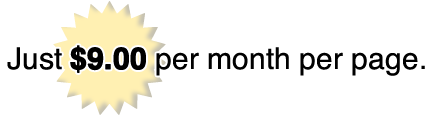
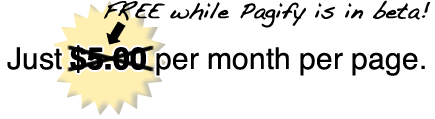
beta launched!

diff --git a/templates/app/fb-tab.html b/templates/app/fb-tab.html
@@ -25,7 +25,7 @@
             <img id="pagify-image" class="widget" src="{{page.header_image_url}}=s520"/>
             {% endif %}
 
-            <div id="pagify-widget-list-1" class="widget">
+            <div id="pagify-widget-list-1" class="widget" style="display:none">
             	{% for w in widgets %}
                 	<h3><a href="#">{{w.name}}</a></h3>
                 	<div id="{{w.id}}" class="widget-list-item widget-{{w.type}}">
@@ -136,7 +136,7 @@
 		      call = "call_" + wid.replace(/-/g, "") + "()";
               eval(call);
 		  }
-		});
+		}).fadeIn();
 		
 		// Load default widget if there is one
 		var firstWidget = $("#pagify-widget-list-1 > div:eq(0)");

diff --git a/templates/app/login.html b/templates/app/login.html
@@ -20,7 +20,7 @@
     <div id="login">
         <h1><a href="http://pagifyapp.com" title="Powered by Pagify">Pagify</a></h1>
         <div id="loginform" class="box_round_4 box_shadow">
-            <fb:login-button autologoutlink="true" size="large" perms="read_stream,publish_stream,offline_access,email">Login with Facebook</fb:login-button>
+            <fb:login-button autologoutlink="true" size="large" perms="publish_stream,offline_access,email,manage_pages">Login with Facebook</fb:login-button>
         </div>
     </div>
     <p id="backto" class="header_box_gradient"><a href="http://pagifyapp.com/" title="Are you lost?">&larr; Back to Pagify</a></p>

diff --git a/templates/app/inc/inc.fblogin.html b/templates/app/inc/inc.fblogin.html
@@ -1,3 +1,3 @@
-<fb:login-button autologoutlink="true" perms="read_stream,publish_stream,offline_access,email"></fb:login-button>
+<fb:login-button autologoutlink="true" perms="publish_stream,offline_access,email,manage_pages"></fb:login-button>
 <span id="fb-profile-picture"><fb:profile-pic uid="loggedinuser" size="square" facebook-logo="true"></fb:profile-pic></span>
 <span id="fb-profile-name">Hello <fb:name uid="loggedinuser" use-you="no"></fb:name></span>

diff --git a/templates/app/upgrade.html b/templates/app/upgrade.html
@@ -5,8 +5,10 @@
 {% endblock %}
 {% block body %}
 <h1>Upgrade</h1>
-<p style="text-align:center;font-size:30px">
-Coming Soon!
+<p style="text-align:center;font-size:30px;line-height: 1.5em;">
+Coming Soon!<br/>
+Packages will be available once Pagify is out of beta.
+<br/>For being a beta tester you will receive 50% off any package!
 </p>
 {% comment %}
 <ul id="upgrade-list" class="">

diff --git a/templates/app/widgets/youtube.html b/templates/app/widgets/youtube.html
@@ -15,7 +15,7 @@
 
 <script>
 var timeout_{{widget.id|cut:"-"}};
-$('.{{widget.id}}').bind('textchange', function () {
+$('.{{widget.id}}').bind('textchange change', function () {
   clearTimeout(timeout_{{widget.id|cut:"-"}});
   //$('#ajaxFired').html('<strong>Typing...</strong>');
     var self = this;

diff --git a/handlers.py b/handlers.py
@@ -452,7 +452,10 @@ class fbTabHandler(BaseHandler):
         #logging.info(self.request)
         signed_request = facebook.parse_signed_request(self.request.get('signed_request'),self.get_config('facebook','app_secret'))
         #logging.info(signed_request)
-        user_id = signed_request['user_id']
+        try:
+          user_id = signed_request['user_id']
+        except:
+          user_id = None
         page_id = signed_request['page']['id']
         liked = signed_request['page']['liked']
         admin = signed_request['page']['admin']
